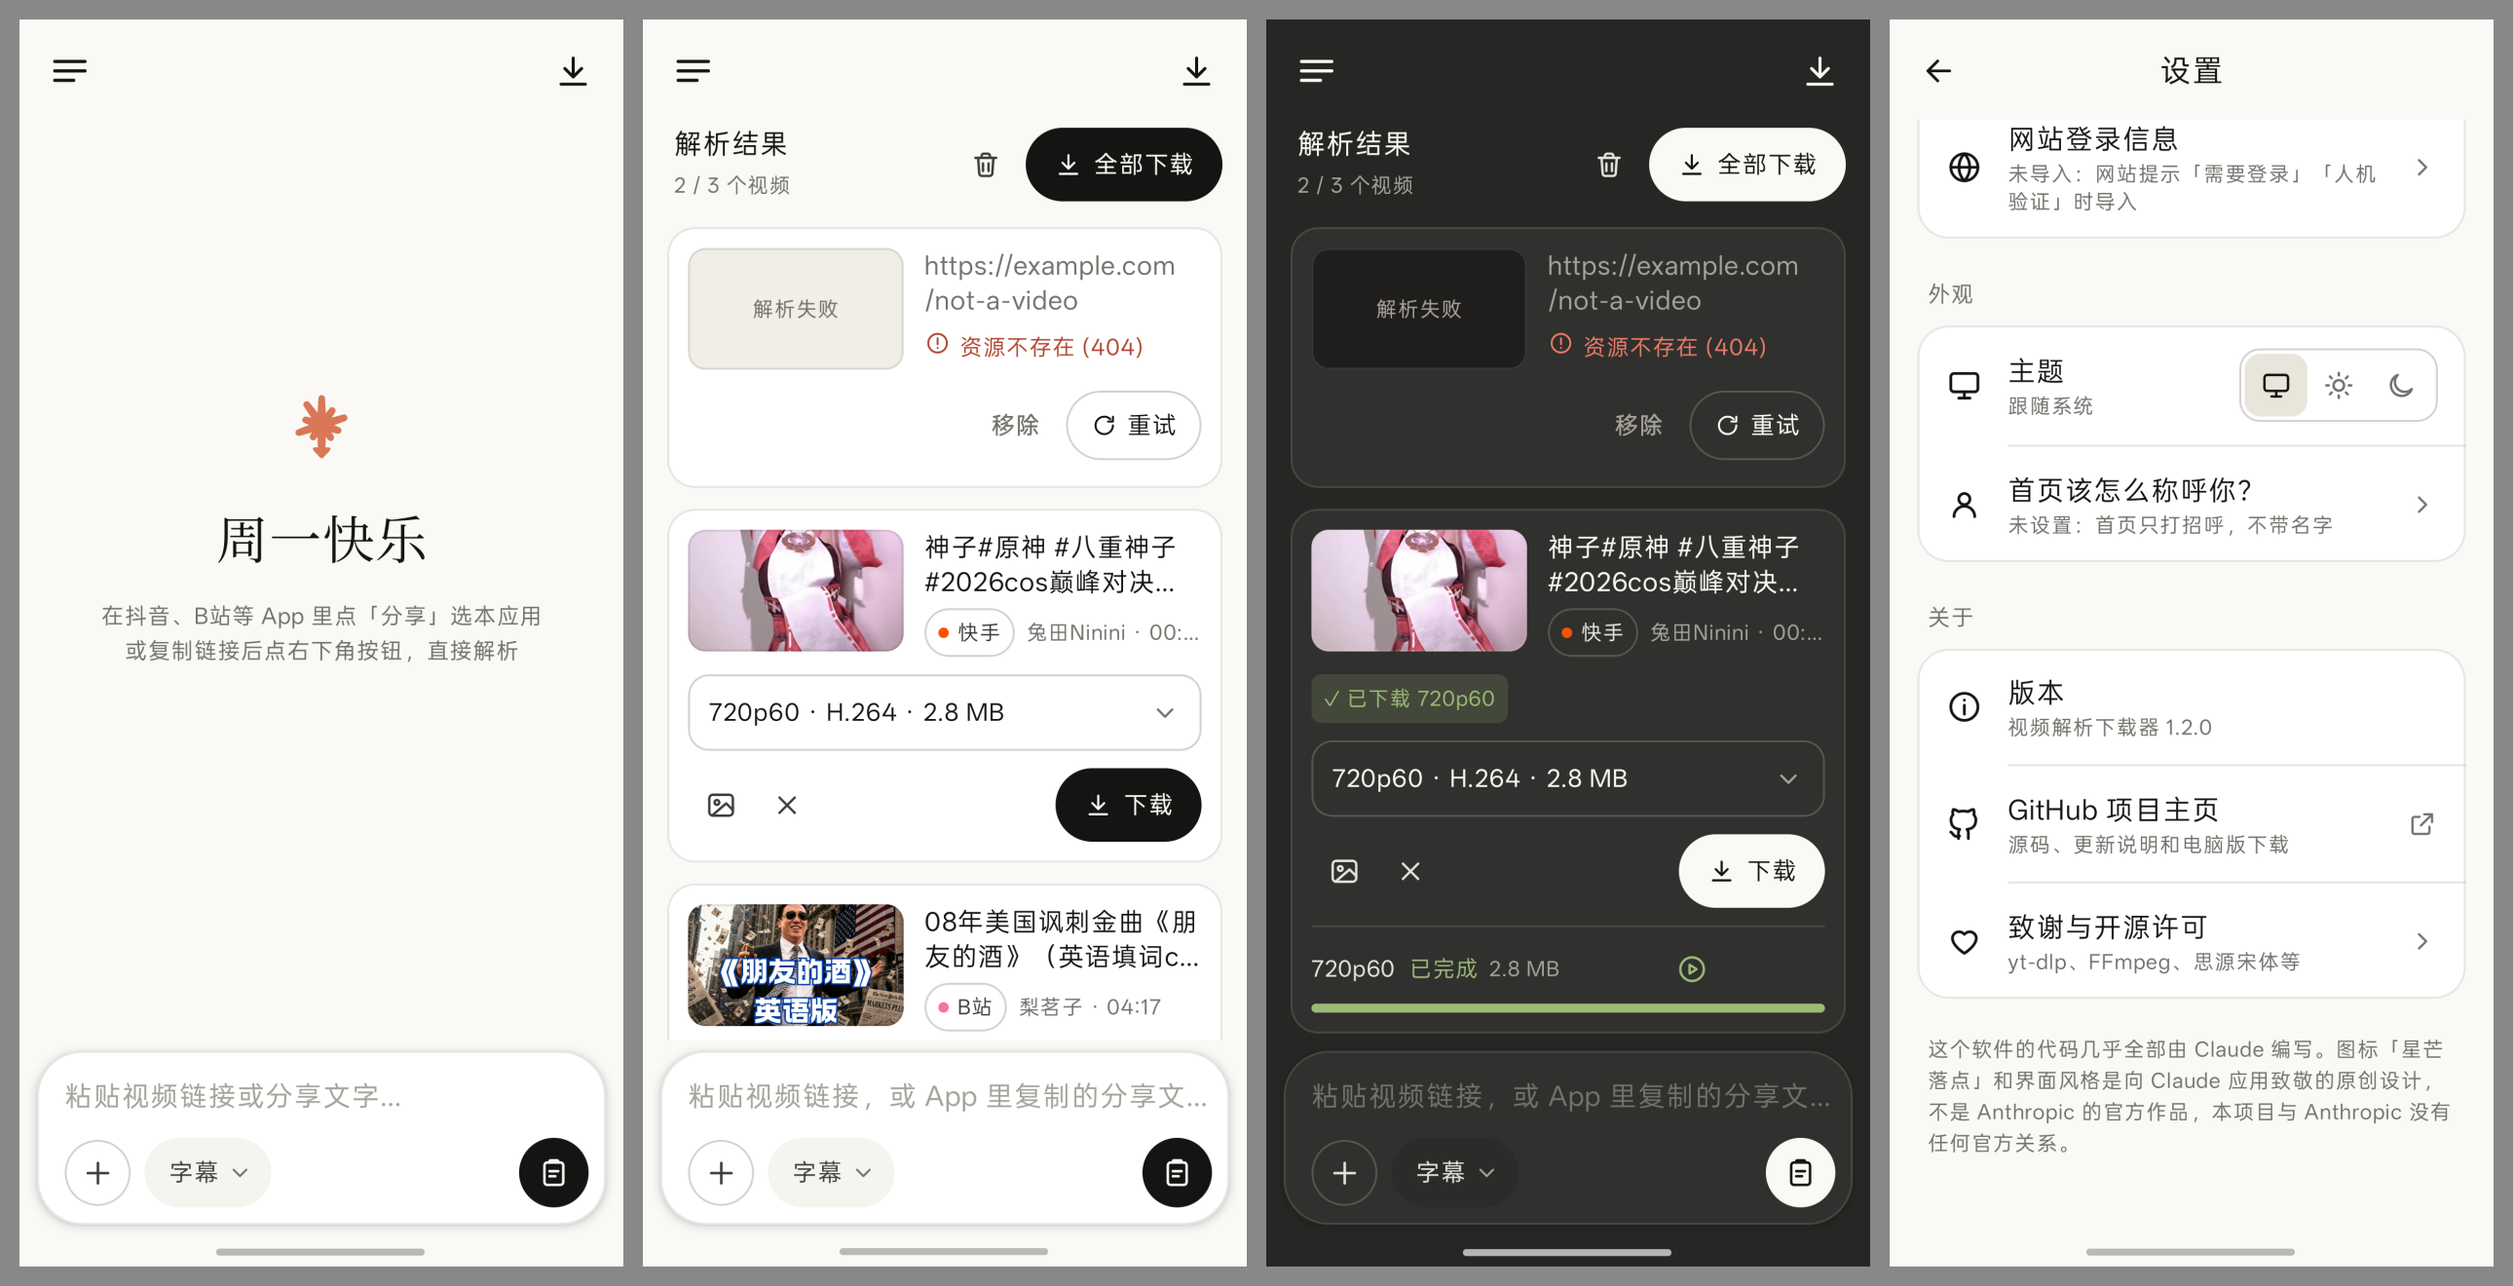
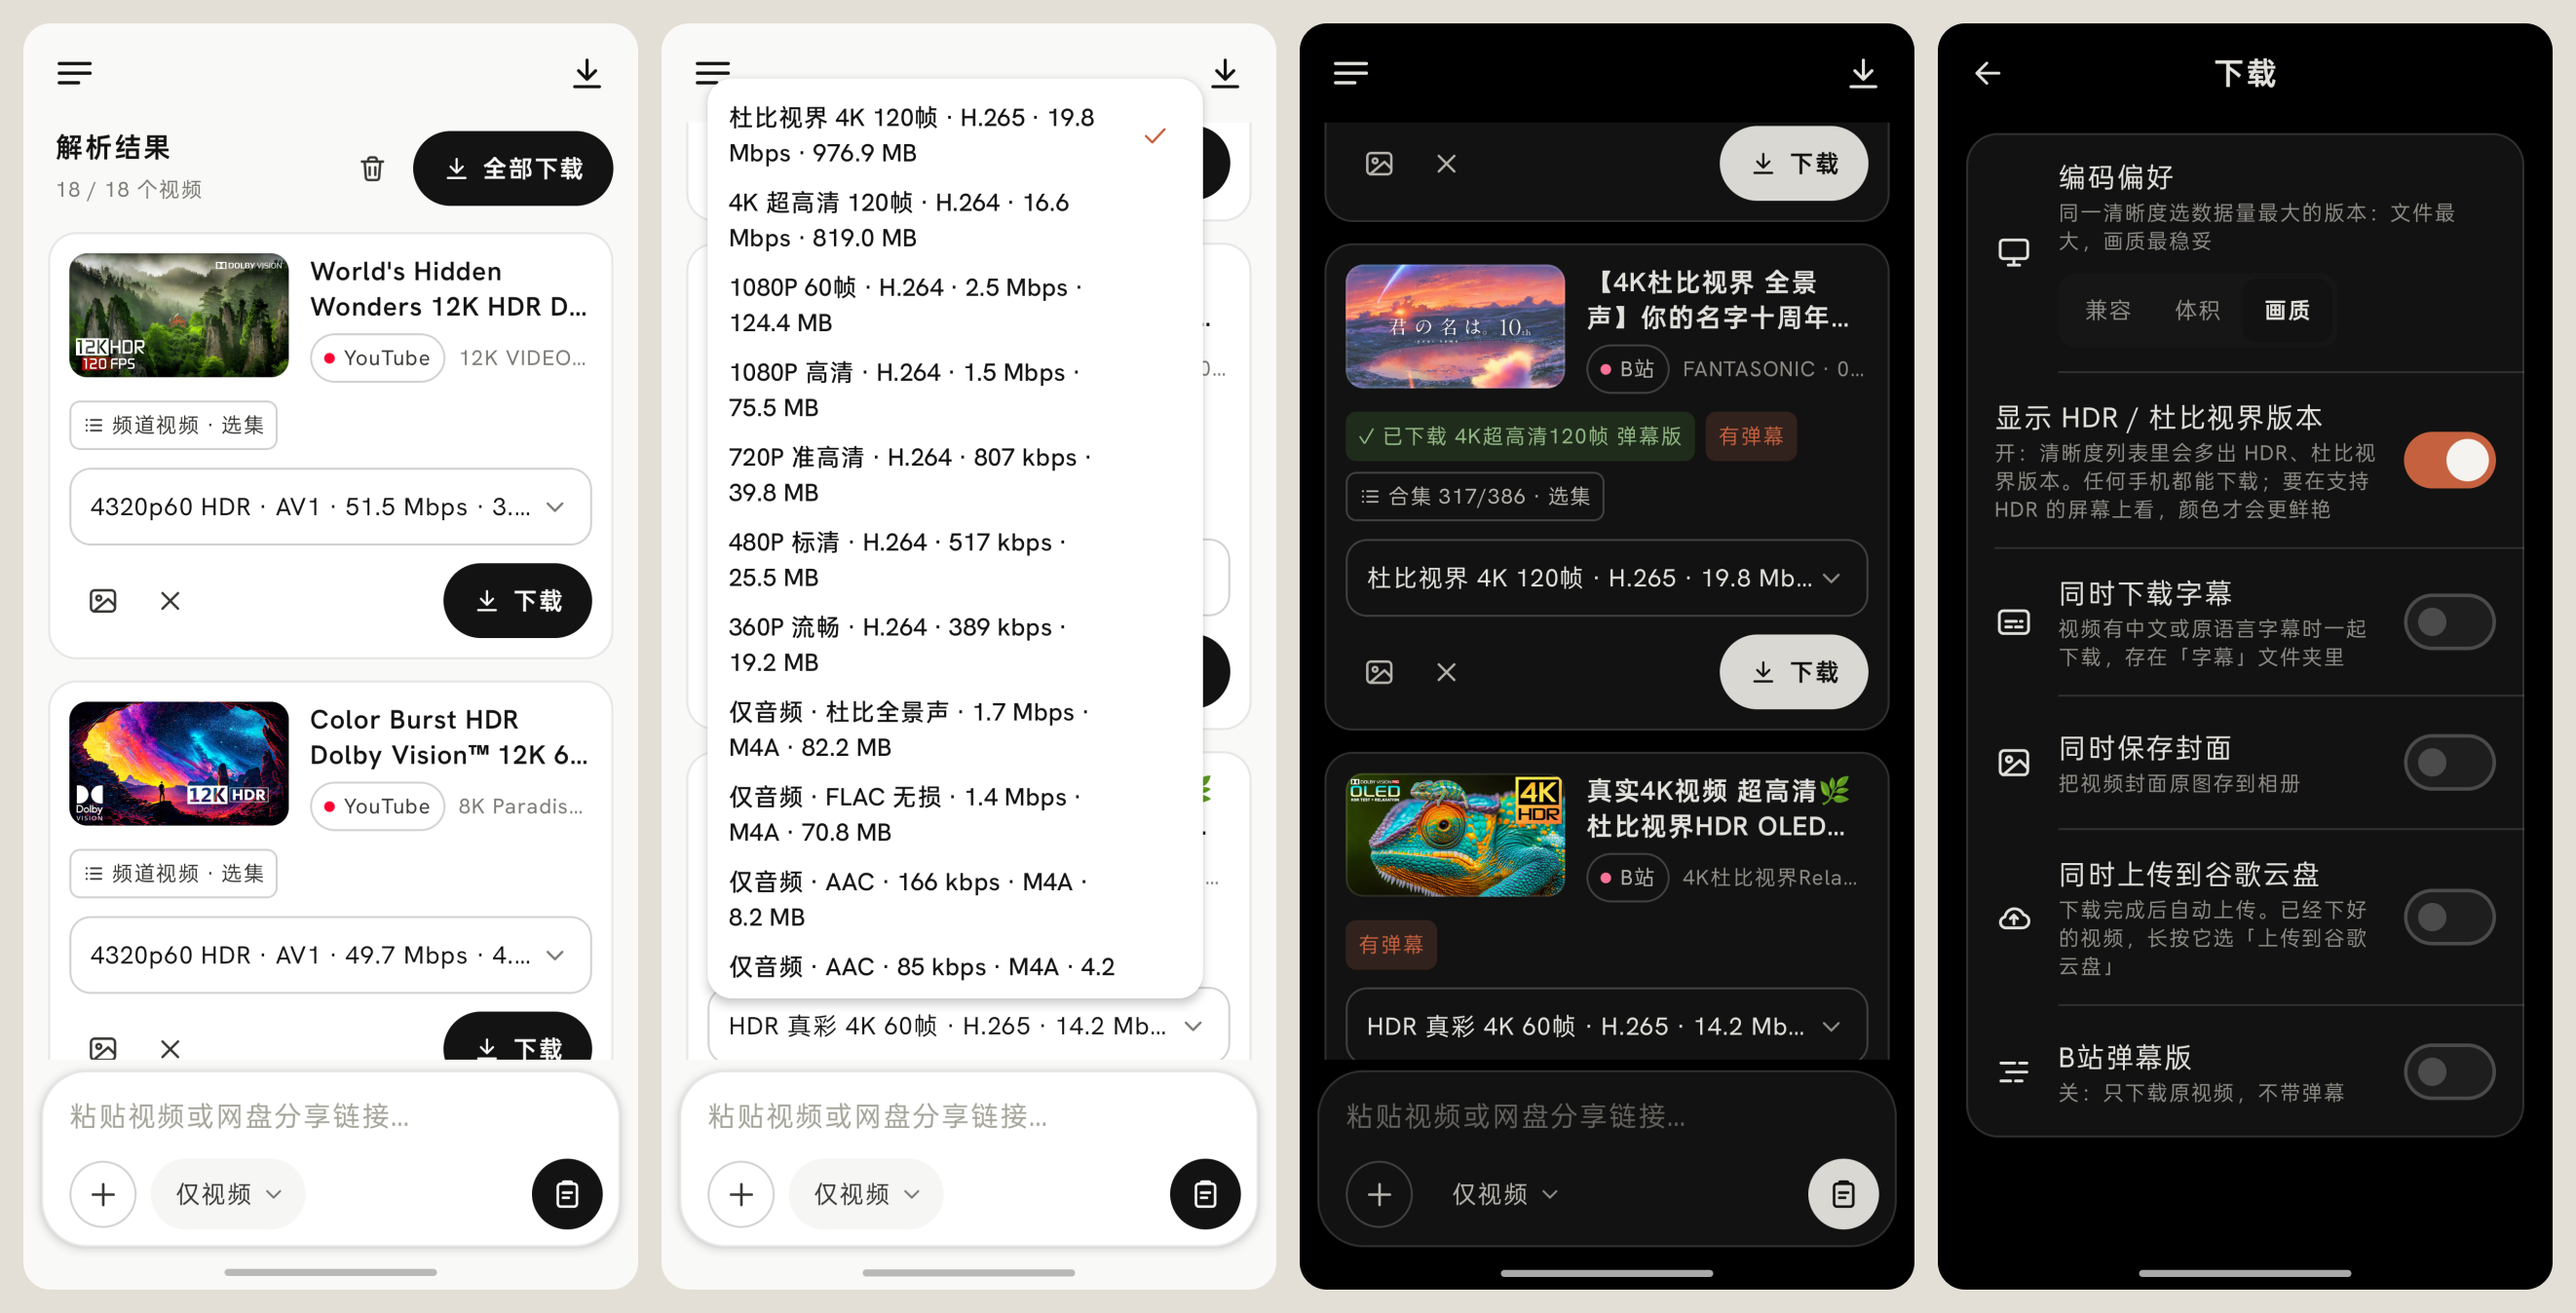
项目主页换上 2.5.0 的界面截图；发布说明补上网页嗅探、8K/HDR/杜比视界批量解析和「App 内置网页不能用谷歌账号登录」
- 界面设计/电脑版界面预览.png：用 test_1.txt 的 18 个链接（YouTube 8K HDR、B站 4K HDR / 杜比视界）一次批量解析后截图：
  首页、浅色批量结果、深色 + B站「杜比视界 4K 120帧」清晰度列表、纯黑 + YouTube 8K 全部格式、网站登录、解析内核设置。
  在沙盒数据目录里拍的（B站登录是复制来的一份，禁止续期），界面上的昵称是 Moyer。
- 界面设计/安卓版界面预览.png：在手机上解析同一批链接后截图（只裁掉系统状态栏）：浅色 8K 结果、
  杜比视界 / 杜比全景声 / FLAC 清晰度列表、深色 B站结果、下载设置。
- README、发布说明：写明谷歌不允许在 App 内嵌网页里登录谷歌账号，安卓版请用网站自己的账号密码，谷歌账号到电脑版登录。

diff --git a/发布说明/2.5.0.md b/发布说明/2.5.0.md
@@ -1,9 +1,10 @@
 ## 更新内容
 
 ### 新功能
-- [电脑版] **网站登录**：要登录才能看的视频，在 设置 → 网络与登录 里点「登录」，在内置浏览器（电脑上的 Edge / Chrome，用的是软件自己的独立配置）里登录就行，不用再装浏览器扩展导出 cookies；登录信息会自动刷新，失效了卡片上有「去登录」
-- [安卓版] **网站登录**：TikTok、X、Instagram、Vimeo 等网站可以在 设置 → 网站登录信息 里直接打开网页登录；YouTube 和其它网站仍然可以导入 cookies
-- [电脑版] **网页资源嗅探**：解析不了的网站，点输入框的 **+** →「打开网页嗅探视频…」，在内置浏览器里播放视频，软件把视频地址（HLS / DASH / 视频文件）抓出来下载
+- [电脑版] **网站登录**：要登录才能看的视频，在 设置 → 网络与登录 里点「登录」，软件会打开一个普通的 Edge / Chrome 窗口（用的是软件自己的独立配置），登录好以后关掉窗口就行，不用再装浏览器扩展导出 cookies；登录信息会自动刷新，失效了卡片上有「去登录」
+- [安卓版] **网站登录**：TikTok、X、Instagram、Vimeo 等网站可以在 设置 → 网站登录信息 里直接打开网页登录（请用网站自己的账号密码，见下面的「注意」）；YouTube 和其它网站仍然可以导入 cookies
+- **网页资源嗅探**：没有专门解析器的网站，直接把网页地址发到输入框，软件会自动从网页里找出视频（HLS / DASH / 视频文件）列出来，点「下载」就行，**不弹浏览器窗口**：先读网页源码，[电脑版] 找不到再在后台打开网页自动播放一下；能认出 H.265 版本和清晰度
+- **8K / HDR / 杜比视界批量解析**：YouTube 8K HDR（AV1）、B站「杜比视界 4K 120帧」「HDR 真彩」等一次粘贴几十个链接也能同时解析，清晰度列表里分开列出
 - **解析内核自动更新**：有新内核时在后台下载好，重启后生效；解析失败、像是内核过期时会马上检查，卡片上出现「更新内核后重试」；新增「预览版」更新通道
 - [电脑版] **YouTube 组件按需下载**：不用再自己装 Node.js / Deno，第一次解析 YouTube 链接时自动下载（约 40MB，只需一次）
 - **「显示功能说明」开关**：关掉后每个选项下面解释功能的小字不再显示，界面更干净；状态、错误和警告不受影响
@@ -40,6 +41,7 @@
 | `LinkDownloader-2.5.0-android.apk` | 安卓版：手机下载后点击安装，装过旧版可以直接覆盖升级 |
 
 ## 注意
+- **App 内置网页不能用谷歌账号登录**：谷歌不允许在 App 里内嵌的网页中登录谷歌账号（会显示「此浏览器或应用可能不安全」），这是谷歌的安全限制。安卓版登录 X、TikTok 等网站时，请用网站自己的账号密码，不要点「使用 Google 继续」；要用谷歌账号登录的话，请在电脑版上登录（电脑版打开的是普通浏览器窗口），或者导入 cookies.txt。
 - 升级后第一次打开，软件会把原来的登录信息（B站、网站 cookies）加密保存并删除明文文件；之后如果退回 2.4.1 或更早的版本，需要重新登录。
 - 程序没有购买代码签名证书，Windows 可能弹出“已保护你的电脑”，点“更多信息 → 仍要运行”即可。
 - 免安装版不要只拷贝 exe，整个文件夹（含 `_internal`、`ffmpeg`）都需要。

diff --git a/README.md b/README.md
@@ -11,7 +11,12 @@
 
 ![电脑版界面](界面设计/电脑版界面预览.png)
 
+电脑版：首页 · 一次粘贴 18 个链接的批量解析结果（YouTube 8K HDR）· 深色模式下 B站「杜比视界 4K 120帧」的清晰度列表 ·
+纯黑（OLED）模式下 YouTube 8K 的全部格式 · 网站登录 · 解析内核自动更新
+
 ![安卓版界面](界面设计/安卓版界面预览.png)
+
+安卓版：8K HDR 批量解析结果 · B站杜比视界 / 杜比全景声 / FLAC 无损的清晰度列表 · 深色模式 · 下载设置
 
 ## 下载
 
@@ -50,11 +55,14 @@
 - **新版本提醒**：启动时检查 GitHub 上有没有新的安卓版，有的话首页顶部出现一条「新版本 x.y.z · 查看」，点开才显示更新窗口
   （更新内容按 新功能 / 改进 / 修复 分组，可以跳过某个版本）；设置 → 关于 →「版本」也能手动检查。
 - **网站登录信息**：TikTok、X、Instagram、Vimeo 等需要登录的网站，在「设置 → 网站登录信息」里点网站名，直接在 App 里的网页上登录，
-  登录好后自动保存。YouTube（谷歌不允许在 App 内嵌网页里登录）和其它网站仍然可以导入：用电脑浏览器扩展 **Get cookies.txt LOCALLY**
+  登录好后自动保存。**App 内置网页不能用谷歌账号登录**（谷歌不允许，「使用 Google 继续」会显示「此浏览器或应用可能不安全」），
+  请用网站自己的账号密码；要用谷歌账号就在电脑版上登录。YouTube 和其它网站仍然可以导入：用电脑浏览器扩展 **Get cookies.txt LOCALLY**
   导出 cookies，在同一个页面导入（也可以在文件管理器里把文件「分享」给本应用）。登录信息加密保存在 App 里
   （密钥由 Android Keystore 保管），不参与系统的云备份和换机迁移。
 - **显示功能说明**：设置 → 外观。关掉后每个选项下面解释功能的小字不再显示，状态、错误不受影响。
 - **YouTube**：手机上没有 Node.js，借用系统 WebView 的 V8 引擎解 YouTube 的 JS 验证，清晰度和电脑版一致。
+- **网页资源嗅探**：没有专门解析器的网站，把网页地址发过来，App 会读网页源码找出里面的视频直接解析（不开浏览器；
+  要等播放器运行才出现地址的网页手机上找不到，请用电脑版）。
 - HLS 格式会自动转成标准 MP4；选中的清晰度下载失败时，会自动换同一视频的其它格式再试。
 
 ## 启动（本地开发）
